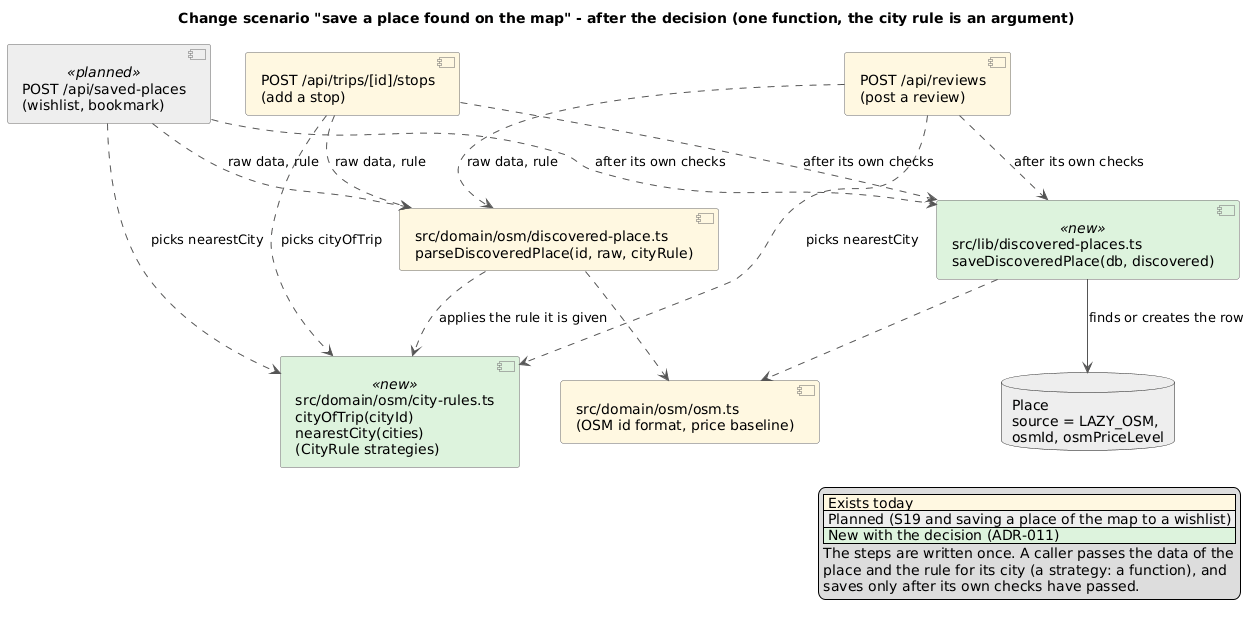
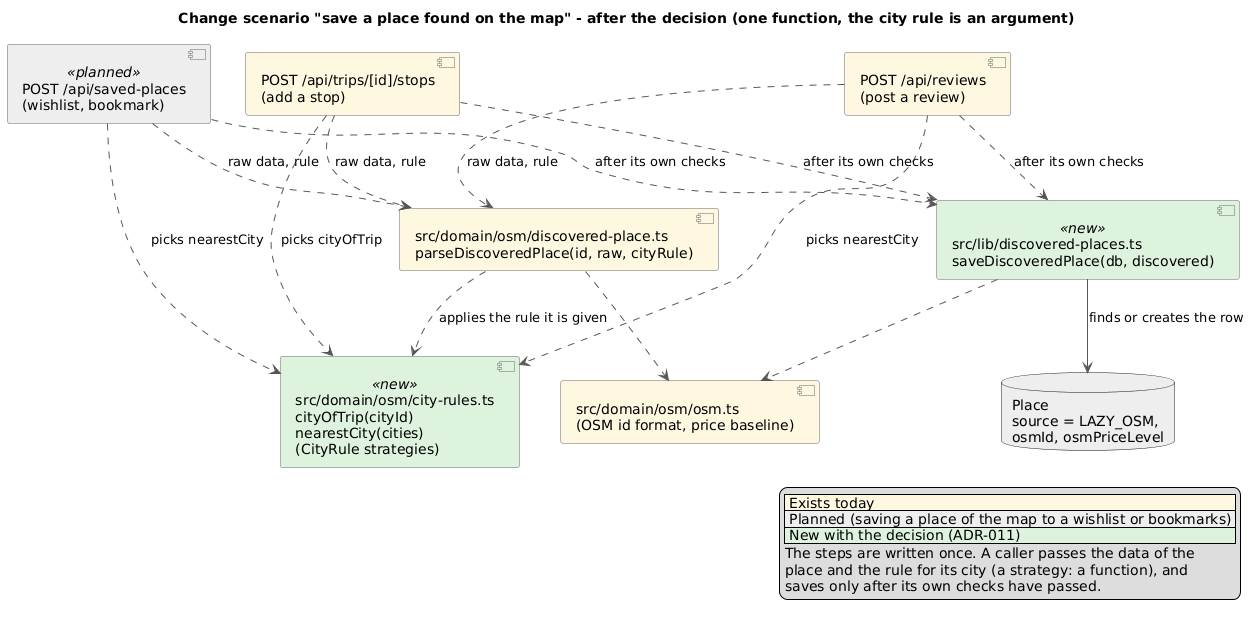
Design: scenario 2 starts from the wishlist of places found on the map, not from the Porto limitation
The scenario is a plausible new feature (saving a place found on the map to a wishlist or bookmarks) and a possible second source of places. The disagreement between the copies, including the city of reviews, is one line of evidence. ADR-011 context and the diagram legends follow.

Changed region(s): [[0.62, 0.7699, 0.9921, 0.9854]]

diff --git a/docs/design.md b/docs/design.md
@@ -438,7 +438,7 @@ truth. Domain policies are on the EventStorming board and in section 2.1.
 #### ADR-011: One function saves a place found on the map, and the rule for its city is an argument
 
 - **Status:** Accepted. It is built with the first story that needs it: S19 (live discovery, AC2) or saving a place found on the map to a wishlist or bookmarks, as its first step.
-- **Context:** A place found on the map becomes a `Place` the first time it is reviewed or added to a trip. Two handlers do it, each with its own copy of the sequence, and the copies disagree: `POST /api/reviews` assigns the city Porto without checking the position, `POST /api/trips/[id]/stops` assigns the city of the trip and checks the position against the city areas and saves only after the stop is accepted. S19 asks for a third rule, the nearest city of the catalog. Saving a place of the map to a wishlist would add a third copy. The rules change often (9 commits to the reviews route and 6 to the stops route between 1 and 19 Nov 2026) and the column `osmPriceLevel` (#157) had to be added in both. The full analysis is in section 4.2 ([change scenarios](#4-future-change-scenarios-coupling-cohesion-and-design-decisions)).
+- **Context:** A place found on the map becomes a `Place` the first time it is reviewed or added to a trip. Two handlers do it, each with its own copy of the sequence. Saving a place of the map to a wishlist or bookmarks would add a third copy, and a second source of places would change all of them. The copies already disagree: `POST /api/reviews` assigns the city Porto without checking the position, `POST /api/trips/[id]/stops` assigns the city of the trip, checks the position against the city areas and saves only after the stop is accepted, and S19 asks for a third rule, the nearest city of the catalog. The rules change often (9 commits to the reviews route and 6 to the stops route between 1 and 19 Nov 2026) and the column `osmPriceLevel` (#157) had to be added in both. The full analysis is in section 4.2 ([change scenarios](#4-future-change-scenarios-coupling-cohesion-and-design-decisions)).
 - **Decision:** Two steps, because a refusal must save nothing. `parseDiscoveredPlace(placeId, raw, cityRule)` (pure, `src/domain/osm/discovered-place.ts`) checks the data and applies a city rule. `saveDiscoveredPlace(db, discovered)` (new, `src/lib/discovered-places.ts`) finds the place by id or OpenStreetMap id or creates it with `source = LAZY_OSM` and the price baseline, and the caller calls it after its own checks, inside its own transaction. A city rule is a function from a position to a city or a refusal, in `src/domain/osm/city-rules.ts`: `cityOfTrip(cityId)` for trips and `nearestCity(cities)` for reviews and saved places (the Strategy pattern, in function form).
 - **Alternatives considered:** copying the steps into the saved places route (functional coupling between three writers, and the copies keep drifting); a separate endpoint that the browser calls before the review, the stop or the saved place (it breaks the rule that a refusal saves nothing and needs two requests); an abstract class with a Template Method and one subclass per caller (the code base uses functions, and the callers differ in two things only).
 - **Consequences:**
@@ -455,7 +455,7 @@ each iteration, and its decision is recorded as an ADR in [section 3.3](#33-arch
 | Scenario | Written at | Decision |
 | -------- | ---------- | -------- |
 | 1. Edit and delete a review (US-C2-01), section 4.1 below | End of Iteration 1 | [ADR-010](#adr-010-one-function-recomputes-the-stored-values-of-a-place) |
-| 2. Save a place found on the map (S19 and the wishlist), section 4.2 below | End of Iteration 2 | [ADR-011](#adr-011-one-function-saves-a-place-found-on-the-map-and-the-rule-for-its-city-is-an-argument) |
+| 2. Save a place found on the map to a wishlist or bookmarks, section 4.2 below | End of Iteration 2 | [ADR-011](#adr-011-one-function-saves-a-place-found-on-the-map-and-the-rule-for-its-city-is-an-argument) |
 
 ### 4.1. Scenario 1 — Edit and delete a review (Iteration 1)
 
@@ -596,14 +596,15 @@ Before and after:
 
 #### Change scenario and design context
 
-**The scenario.** The story **S19 Live discovery** (Stretch, built in the tracer bullet) says that a place found on the map is saved to the
-catalog **"in the correct city"** when its first review is posted (AC2), and its business rule is: "a discovered place is
-assigned to the nearest city that is in the catalog". The story also records that this is not true today: a place saved from
-a review always goes to Porto (ADR-002). Next to it there is a second, equally plausible request: a user finds a place on the
-map and wants to put it on the wishlist or bookmark it, without writing a review first. The saved places API takes the id of a
-catalog place only, so such a place needs a `Place` row before it can be saved. Both requests touch the same knowledge: **how a
-place found on the map becomes a `Place`**. The change is plausible because S19 is a story and a wishlist of places found on the
-map is the natural next use, and it is sensitive because the rule for the city is about to change.
+**The scenario.** A user finds a place on the map or in the search, one that the catalog does not have yet, and wants to put it on
+the **wishlist** or to **bookmark** it, without writing a review first (an extension of US-D1-01, saved places; it is not a story
+yet). The saved places API takes the id of a catalog place only, so such a place needs a `Place` row before it can be
+saved. The same step already exists in two features: a place found on the map is saved to the catalog when it is reviewed and when
+it is added to a trip. The wishlist would be the third, and a second source of places beside OpenStreetMap, which the component
+diagram already allows for (the places data source is an external system), would make every one of them change at once.
+All of these touch the same knowledge: **how a place found on the map becomes a `Place`**. The change is plausible because
+reviewing, planning and saving are the three things a user does with a place, and it is sensitive because the rules of that
+step are volatile (see the coupling analysis).
 
 **The design today.** Two handlers turn a place of the map into a `Place` row, each with its own copy of the sequence:
 
@@ -613,7 +614,9 @@ map is the natural next use, and it is sensitive because the rule for the city i
 | `POST /api/trips/[id]/stops` (about 60 lines) | After the stop is accepted, so a refusal saves nothing (#60). City: the city of the trip, and only if the position is inside its area (`city-areas.ts`). The data is checked by `parseDiscoveredPlace`. A lost race on the unique OpenStreetMap id answers 409. |
 
 Both write `source = LAZY_OSM`, set the price baseline with `osmPriceLevelOf` and reuse a place that has the same OpenStreetMap
-id. They are not the rule of S19, and they are not the same rule as each other. The import script and the seed also create
+id. They are not the same rule as each other, and neither is the one that the story S19 (live discovery) asks for, "the nearest city
+of the catalog": the copies have already drifted, which is what happens to a rule that is written twice (ADR-002 records the
+Porto assignment of reviews as a known limitation). The import script and the seed also create
 places, but from snapshot files, in bulk and with `source = IMPORTED`: a different path, outside this scenario. One change shows
 the cost of the copies: the column `osmPriceLevel` (#157) had to be written in both handlers, in separate commits, and in the
 import, the seed and the backfill script.
